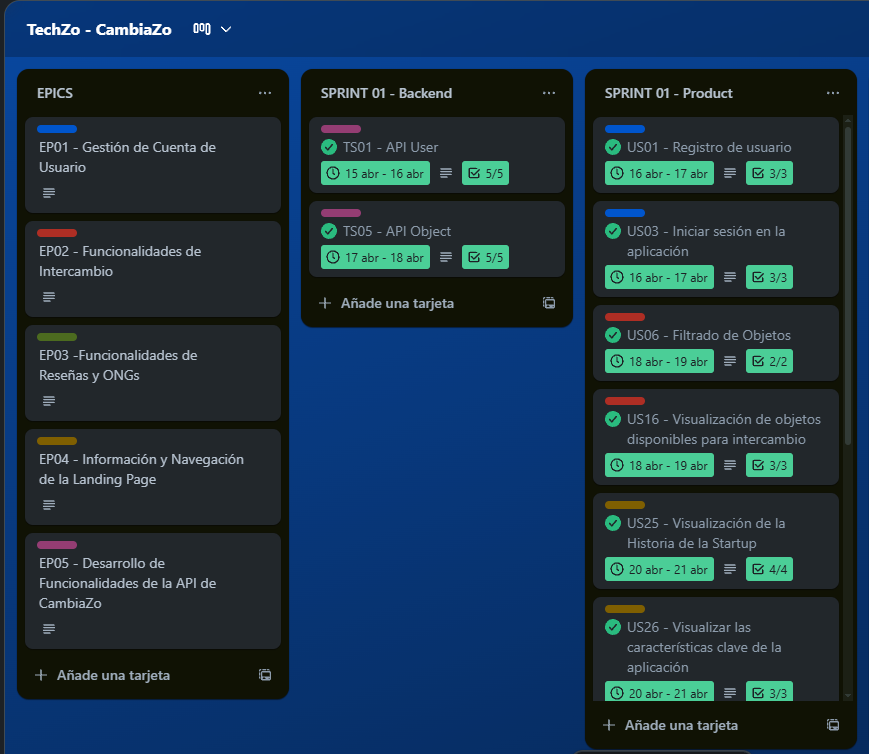
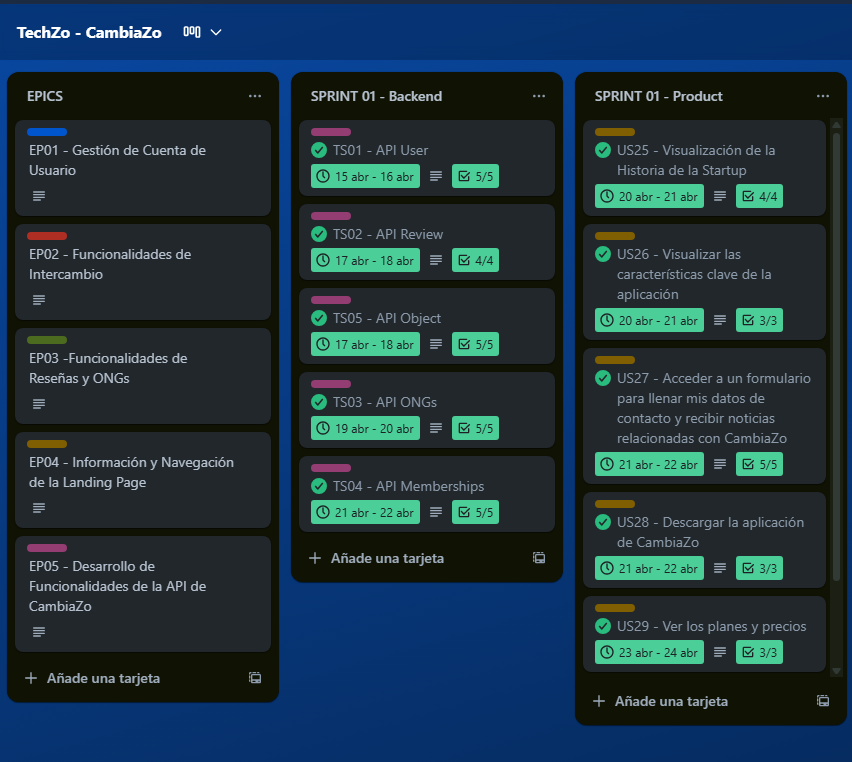
fix: sprint backlog 1
I've fixed sprint backlog 1 images

diff --git a/upc-pre-202402-cc238-sw63-techzo-report.md b/upc-pre-202402-cc238-sw63-techzo-report.md
@@ -4405,7 +4405,7 @@ Elegimos Netlify debido a que su plataforma es muy fácil e intuitiva de utiliza
 
 ### 5.2.1 Sprint Backlogs
 
-El objetivo de este primer sprint es desarrollar una versión inicial de del backend, el cual será el encargado de gestionar datos clave como los objetos de intercambio, productos favoritos, suscripciones y reseñas, asegurando un funcionamiento eficiente y preparando la plataforma para futuras mejoras y funcionalidades avanzadas.
+El objetivo de este primer sprint fue desarrollar y completar por completo el backend de la aplicación, encargado de gestionar datos clave como los objetos de intercambio, productos favoritos, suscripciones y reseñas, garantizando un funcionamiento eficiente. Además, se finalizó el desarrollo de la landing page, estableciendo una base sólida para la presentación del proyecto y futuras funcionalidades avanzadas.
 
 Enlace: [Sprint Backlog 1 Trello](https://trello.com/invite/b/680ab573e244983ab4167d99/ATTI3148cf1d5398db1216af7f1c51dbd219F3CEDE32/techzo-cambiazo)<br><br>
 
@@ -4431,50 +4431,10 @@ Enlace: [Sprint Backlog 1 Trello](https://trello.com/invite/b/680ab573e244983ab4
     <td>Assigned<br>to</td>
     <td>Status<br>(To-do /<br>InProcess /<br>ToReview /<br>Done)</td>
   </tr>
-  <tr>
-    <td rowspan="1">US01</td>
-    <td rowspan="1">Registro<br>de<br>usuario</td>
-    <td>WI-01</td>
-    <td>Sección<br>para<br>nuevos<br>usuarios</td>
-    <td>Implem<br>entación<br>de una<br>pantalla de<br>registro donde<br>nuevos usuarios<br>puedan sumarse<br>a CambiaZo.</td>
-    <td>6</td>
-    <td>Jeremy<br>Quispe</td>
-    <td>Done</td>
-  </tr>
-  <tr>
-    <td rowspan="1">US03</td>
-    <td rowspan="1">Iniciar<br>sesión<br>en la<br>aplicación</td>
-    <td>WI-02</td>
-    <td>Pantalla<br>de<br>inicio<br>de<br>sesión</td>
-    <td>Se crea una<br>pantalla en<br>la cual el<br>usuario podrá<br>ingresar a la<br>aplicación cuando<br>introduzca el<br>correo con el<br>que creó su<br>cuenta y su<br>contraseña.</td>
-    <td>2</td>
-    <td>Mathias<br>Mendoza</td>
-    <td>Done</td>
-  </tr>
-  <tr>
-    <td rowspan="1">US06</td>
-    <td rowspan="1">Filtrado<br>de<br>Objetos</td>
-    <td>WI-03</td>
-    <td>Implem<br>entación<br>de<br>un<br>filtro<br>de<br>búsqueda</td>
-    <td>Implementar<br>un filtro<br>de búsqueda<br>para que<br>los usuarios<br>puedan encontrar<br>de forma más<br>rápida los<br>objetos de su<br>interés.</td>
-    <td>10</td>
-    <td>Ian<br>Santisteban</td>
-    <td>Done</td>
-  </tr>
-  <tr>
-    <td rowspan="1">US16</td>
-    <td rowspan="1">Visualización<br>de<br>objetos<br>disponibles<br>para<br>intercambio</td>
-    <td>WI-04</td>
-    <td>Listar<br>los<br>objetos<br>disponibles</td>
-    <td>Creación de<br>una sección<br>en la que<br>los usuarios<br>registrados<br>puedan ver<br>los objetos<br>por los que<br>pueden<br>realizar un<br>intercambio.</td>
-    <td>10</td>
-    <td>Joseph<br>Huamani</td>
-    <td>Done</td>
-  </tr>
     <tr>
     <td rowspan="1">US25</td>
     <td rowspan="1">Visualización de la Historia de la Startup<br></td>
-    <td>WI-05</td>
+    <td>WI-01</td>
     <td>Sección “¿Quiénes somos?”</td>
     <td>Implementación de la sección “¿Quiénes somos?” y las redes sociales y datos de contacto en el footer.</td>
     <td>1</td>
@@ -4485,7 +4445,7 @@ Enlace: [Sprint Backlog 1 Trello](https://trello.com/invite/b/680ab573e244983ab4
     <td rowspan="1">US26</td>
     <td rowspan="1">Visualizar las características clave de la aplicación
     </td>
-    <td>WI-06</td>
+    <td>WI-02</td>
     <td>Sección Características Principales
     </td>
     <td>Desarrollo de la sección donde se pueden visualizar todas las características principales de CambiaZo y conocer lo que puede realizar dentro de esta. </td>
@@ -4496,7 +4456,7 @@ Enlace: [Sprint Backlog 1 Trello](https://trello.com/invite/b/680ab573e244983ab4
   <tr>
     <td rowspan="1">US27</td>
     <td rowspan="1">Acceder a un formulario para llenar mis datos de contacto y recibir noticias relacionadas con CambiaZo</td>
-    <td>WI-07</td>
+    <td>WI-03</td>
     <td>Formulario de contacto</td>
     <td>Desarrollo del formulario para que los usuarios llenen sus datos de contacto y puedan recibir noticias relacionadas con CambiaZo.</td>
     <td>5</td>
@@ -4506,7 +4466,7 @@ Enlace: [Sprint Backlog 1 Trello](https://trello.com/invite/b/680ab573e244983ab4
   <tr>
     <td rowspan="1">US28</td>
     <td rowspan="1">Acceder a la página principal de CambiaZo</td>
-    <td>WI-08</td>
+    <td>WI-04</td>
     <td>Conectar Landing Page con la Web</td>
     <td>Implementación de botones que sirvan para redireccionar a los usuarios de la Landing Page a la Web de CambiaZo.</td>
     <td>2</td>
@@ -4516,7 +4476,7 @@ Enlace: [Sprint Backlog 1 Trello](https://trello.com/invite/b/680ab573e244983ab4
   <tr>
     <td rowspan="1">US29</td>
     <td rowspan="1">Ver los planes y precios</td>
-    <td>WI-09</td>
+    <td>WI-05</td>
     <td>Sección de planes y precios</td>
     <td>Desarrollo de la sección de planes, donde aparezcan los precios de cada plan y lo que incluye cada uno.</td>
     <td>3</td>
@@ -4526,27 +4486,57 @@ Enlace: [Sprint Backlog 1 Trello](https://trello.com/invite/b/680ab573e244983ab4
   <tr>
     <td rowspan="1">US30</td>
     <td rowspan="1">Navegación en la Landing Page</td>
-    <td>WI-10</td>
+    <td>WI-06</td>
     <td>Barra de Navegación</td>
     <td>Implementación de una barra de navegación para que el usuario pueda desplazarse más rápido dentro de la Landing Page.</td>
     <td>3</td>
     <td>Sandro Quispesivana</td>
     <td>Done</td>
   </tr>
-    <tr>
+  <tr>
     <td rowspan="1">TS01</td>
     <td rowspan="1">API User</td>
-    <td>WI-11</td>
+    <td>WI-07</td>
     <td>Creación de la API de usuarios</td>
     <td>Se crea una API que permite el registro de usuarios dentro de la aplicación web. </td>
     <td>8</td>
     <td>Sandro Quispesivana</td>
     <td>Done</td>
   </tr>
+  <tr>
+    <td rowspan="1">TS02</td>
+    <td rowspan="1">API Review</td>
+    <td>WI-08</td>
+    <td>Metodos CRUD para reseñas</td>
+    <td>Implementación de los métodos POST, GET, UPDATE y DELETE para manejar los datos de la tabla reseñas y gestionar las opiniones de los usuarios.</td>
+    <td>10</td>
+    <td>Jeremy Quispe</td>
+    <td>Done</td>
+  </tr>
+  <tr>
+    <td rowspan="1">TS03</td>
+    <td rowspan="1">API Ongs</td>
+    <td>WI-09</td>
+    <td>Metodos CRUD para ongs</td>
+    <td>Implementación de los métodos POST, GET, UPDATE y DELETE para manejar los datos de la tabla Ongs y gestionar las Ongs de los usuarios.</td>
+    <td>10</td>
+    <td>Ian Santisteban</td>
+    <td>Done</td>
+  </tr>
+  <tr>
+    <td rowspan="1">TS01</td>
+    <td rowspan="1">API Memberships</td>
+    <td>WI-10</td>
+    <td>Metodos CRUD para membresías</td>
+    <td>Implementación de los métodos POST, GET, UPDATE y DELETE para gestionar los datos de la tabla de membresías, permitiendo a los usuarios suscribirse a diferentes planes.</td>
+    <td>10</td>
+    <td>Mathias Mendoza</td>
+    <td>Done</td>
+  </tr>
     <tr>
     <td rowspan="1">TS05</td>
     <td rowspan="1">API Object</td>
-    <td>WI-12</td>
+    <td>WI-11</td>
     <td>Creación de la API de productos </td>
     <td> Se crea una API que permite el registro de productos dentro de la aplicación web. </td>
     <td>8</td>
@@ -5034,16 +5024,6 @@ Se desplegaron **versiones mínimas funcionales (MVP)** de la app y la landing p
 La estructura metodológica del proyecto ha estado guiada por principios de **diseño experimental**, integrando hipótesis, validación empírica y análisis reflexivo, asegurando resultados replicables y relevantes. Este enfoque permitió al equipo emitir **juicios técnicos y éticos fundamentados**, reconociendo el impacto de nuestras decisiones en entornos sociales, económicos y tecnológicos diversos. Cada etapa del proyecto fue una oportunidad para ejercitar la **capacidad crítica, la responsabilidad profesional** y la **conciencia del entorno**, logrando así una solución **técnicamente sólida y socialmente pertinente**, en línea con el **Student Outcome 4 del marco ABET**.
 
 
-
-### Video App Validation
-
-  <div align="center">
-    <img src="https://github.com/TechZo-1ASI0732-4453/Report/blob/main/Resources/Chapter-V/Videos/app-validation.png?raw=true">
- </div>
-
-
-Enlace: [App Validation](https://youtu.be/DRN3mUdxJf8?si=NFZm-uI7STHyoLTz)
-
 ## Video About the Product
 
   <div align="center">
@@ -5121,54 +5101,3 @@ Enlace: [Needfinding](https://upcedupe-my.sharepoint.com/:v:/g/personal/u2022140
 
 
 Enlace: [Prototype Navigation](https://upcedupe-my.sharepoint.com/:v:/g/personal/u202214059_upc_edu_pe/ETDFKlDociZGsi_Dgr-d7HkBE3-AouvlOTfvXGrnDqsphg?nav=eyJyZWZlcnJhbEluZm8iOnsicmVmZXJyYWxBcHAiOiJTdHJlYW1XZWJBcHAiLCJyZWZlcnJhbFZpZXciOiJTaGFyZURpYWxvZy1MaW5rIiwicmVmZXJyYWxBcHBQbGF0Zm9ybSI6IldlYiIsInJlZmVycmFsTW9kZSI6InZpZXcifX0%3D&e=PWZXDX)
-
-
-## Execution Evidence for Sprint 1 - Backend
-
-  <div align="center">
-    <img src="https://github.com/TechZo-1ASI0732-4453/Report/blob/main/Resources/Chapter-IV/Software-Deployment-Evidence/backend-sprint-1.png?raw=true">
- </div>
-
-
-Enlace: [Execution Evidence for Sprint 1](https://upcedupe-my.sharepoint.com/:v:/g/personal/u20221a133_upc_edu_pe/EVe6ggHMJ5tGkl62nYxxWJsBKwGq7P0RSP_FJh2a8umSSw?nav=eyJyZWZlcnJhbEluZm8iOnsicmVmZXJyYWxBcHAiOiJTdHJlYW1XZWJBcHAiLCJyZWZlcnJhbFZpZXciOiJTaGFyZURpYWxvZy1MaW5rIiwicmVmZXJyYWxBcHBQbGF0Zm9ybSI6IldlYiIsInJlZmVycmFsTW9kZSI6InZpZXcifX0%3D&e=TePBOc)
-
-
-## Execution Evidence for Sprint 1 - Product
-
-  <div align="center">
-    <img src="https://github.com/TechZo-1ASI0732-4453/Report/blob/main/Resources/Chapter-V/Sprint-1/Execution-Evidence/product-sprint-1.png?raw=true">
- </div>
-
-
-Enlace: [Execution Evidence for Sprint 1](https://upcedupe-my.sharepoint.com/:v:/g/personal/u202216279_upc_edu_pe/EVYXrW-IDaNOn5b8AKu1MAEBvUv4tubPri0uW8cEW5IVsA?e=3rOfT0)
-
-
-## Execution Evidence for Sprint 2 - Product
-
-  <div align="center">
-    <img src="https://github.com/TechZo-1ASI0732-4453/Report/blob/main/Resources/Chapter-V/Sprint-2/Execution-Evidence/product-sprint-2.png?raw=true">
- </div>
-
-
-Enlace: [Execution Evidence for Sprint 2](https://upcedupe-my.sharepoint.com/:v:/g/personal/u20221a133_upc_edu_pe/EfeRV4ADYJdAlSCmTxYqkfABx_yTC7bf8zHBAanqGrJUlQ?nav=eyJyZWZlcnJhbEluZm8iOnsicmVmZXJyYWxBcHAiOiJTdHJlYW1XZWJBcHAiLCJyZWZlcnJhbFZpZXciOiJTaGFyZURpYWxvZy1MaW5rIiwicmVmZXJyYWxBcHBQbGF0Zm9ybSI6IldlYiIsInJlZmVycmFsTW9kZSI6InZpZXcifX0%3D&e=GxAORd)
-
-
-## Execution Evidence for Sprint 3 - Product
-
-  <div align="center">
-    <img src="https://github.com/TechZo-1ASI0732-4453/Report/blob/main/Resources/Chapter-V/Sprint-3/Execution-Evidence/product-sprint-3.png?raw=true">
- </div>
-
-
-Enlace: [Execution Evidence for Sprint 3](https://upcedupe-my.sharepoint.com/:v:/g/personal/u202214059_upc_edu_pe/ESMI2_GdUhhHu4sYMbP_4ikBzwXpXoiC7KI9TmGwYFA9xA?nav=eyJyZWZlcnJhbEluZm8iOnsicmVmZXJyYWxBcHAiOiJTdHJlYW1XZWJBcHAiLCJyZWZlcnJhbFZpZXciOiJTaGFyZURpYWxvZy1MaW5rIiwicmVmZXJyYWxBcHBQbGF0Zm9ybSI6IldlYiIsInJlZmVycmFsTW9kZSI6InZpZXcifX0%3D&e=4NyFTS)
-
-
-## Execution Evidence for Sprint 4 - Product
-
-  <div align="center">
-    <img src="https://github.com/TechZo-1ASI0732-4453/Report/blob/main/Resources/Chapter-V/Sprint-4/Execution-Evidence/product-sprint-4.png?raw=true">
- </div>
-
-
-Enlace: [Execution Evidence for Sprint 4](https://upcedupe-my.sharepoint.com/:v:/g/personal/u20221a133_upc_edu_pe/EawBBbii9-pPspfOBkGKNDIBtEhPWg5lr0NyKrnMsu22TA?nav=eyJyZWZlcnJhbEluZm8iOnsicmVmZXJyYWxBcHAiOiJTdHJlYW1XZWJBcHAiLCJyZWZlcnJhbFZpZXciOiJTaGFyZURpYWxvZy1MaW5rIiwicmVmZXJyYWxBcHBQbGF0Zm9ybSI6IldlYiIsInJlZmVycmFsTW9kZSI6InZpZXcifX0%3D&e=L1hN29)
-
